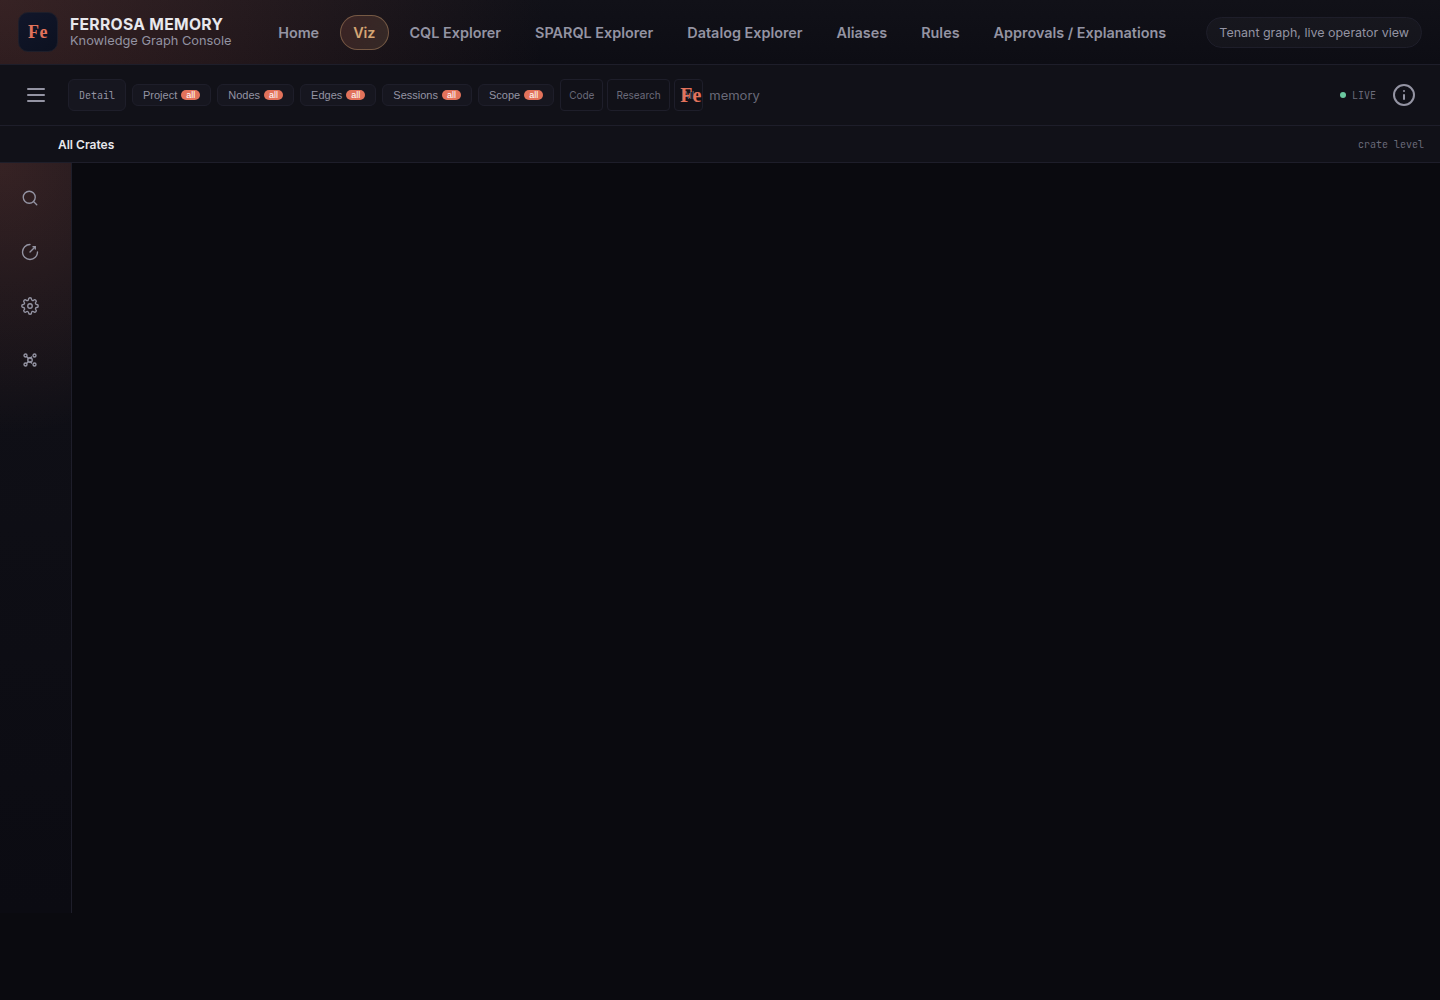
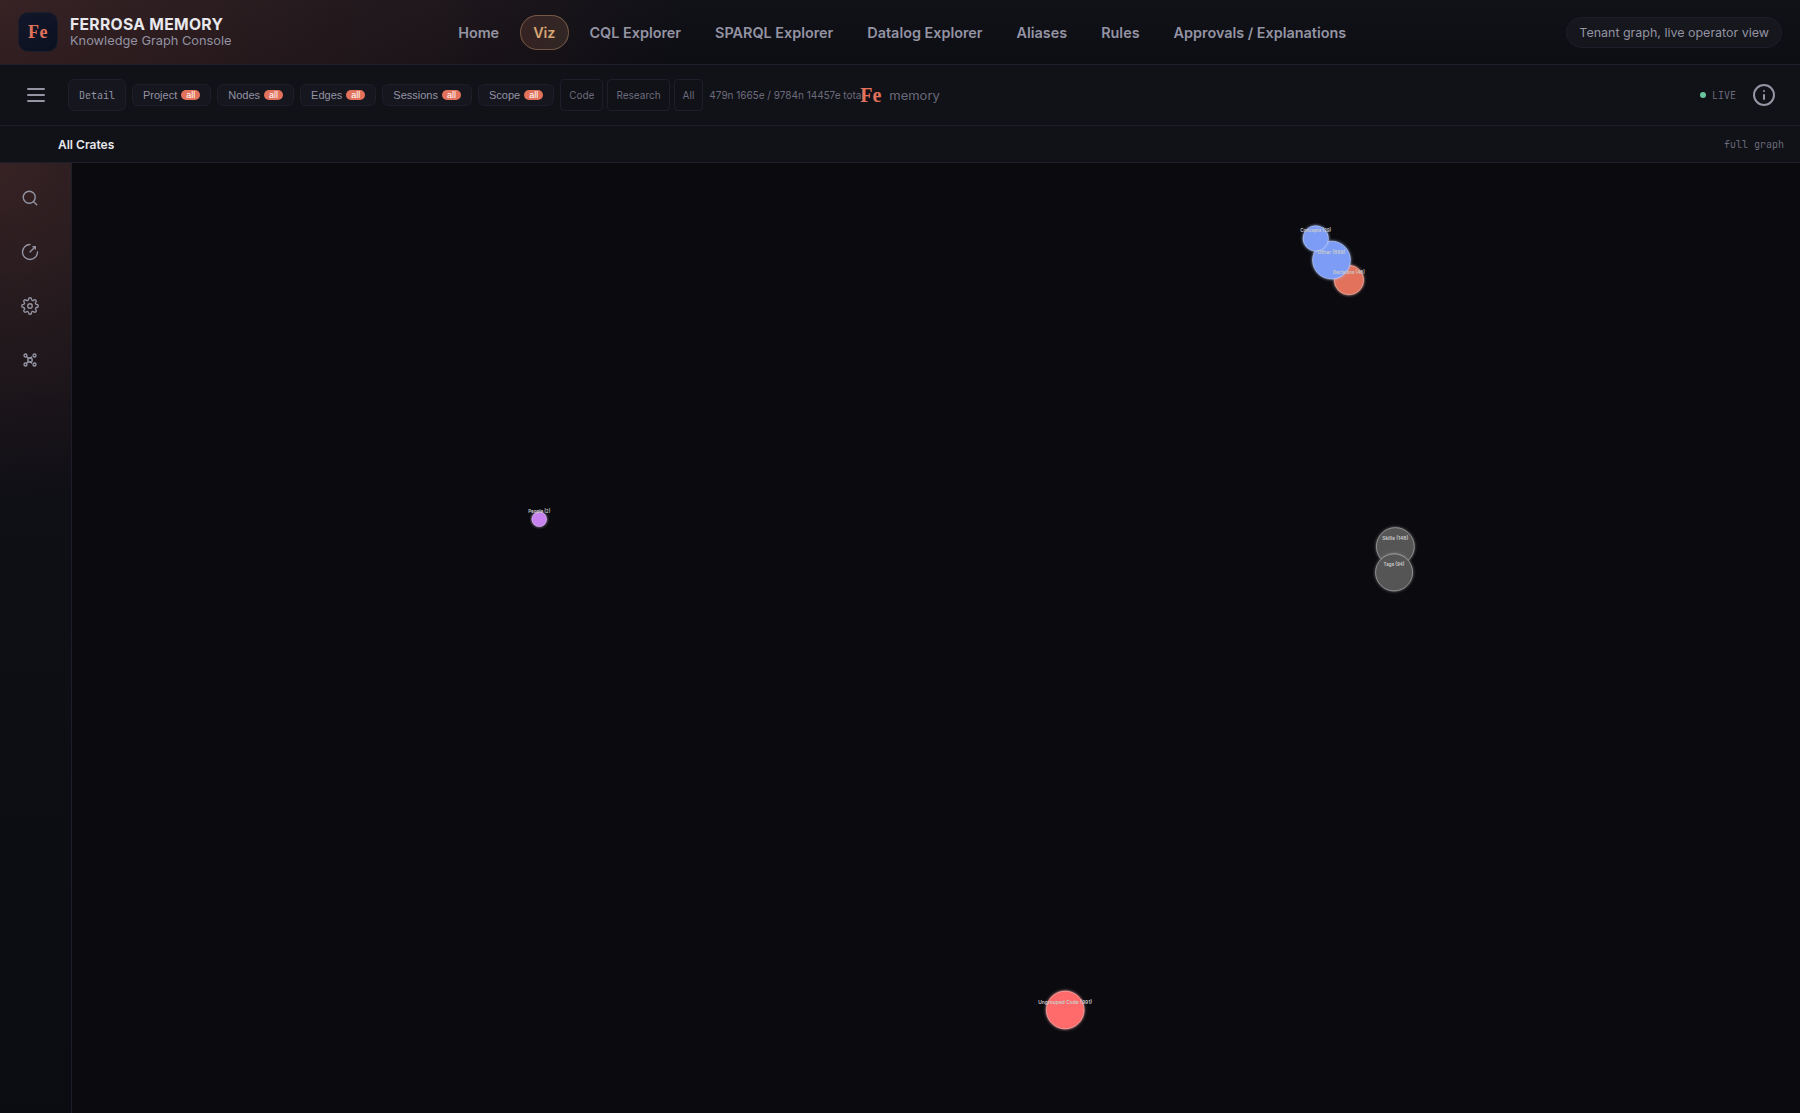
fixup: refresh preview screenshots and callouts

diff --git a/docs/database/index.html b/docs/database/index.html
@@ -766,20 +766,20 @@
 
   <div class="stats-bar">
     <div class="stat">
-      <div class="stat-value">0<span class="unit">ms</span></div>
-      <div class="stat-label">GC Pauses</div>
+      <div class="stat-value">Rust</div>
+      <div class="stat-label">No JVM Heap Tuning</div>
     </div>
     <div class="stat">
-      <div class="stat-value">cache</div>
-      <div class="stat-label">Object-Backed Recovery Model</div>
+      <div class="stat-value">S3</div>
+      <div class="stat-label">Durable Object Storage Layer</div>
     </div>
     <div class="stat">
-      <div class="stat-value">model</div>
-      <div class="stat-label">Workload-Specific Recovery Cost</div>
+      <div class="stat-value">CQL+</div>
+      <div class="stat-label">Graph, Vector, SPARQL Surfaces</div>
     </div>
     <div class="stat">
-      <div class="stat-value">1→N</div>
-      <div class="stat-label">Cluster Evaluation Path</div>
+      <div class="stat-value">0.8</div>
+      <div class="stat-label">Developer Preview: Benchmark First</div>
     </div>
   </div>
 </section>
